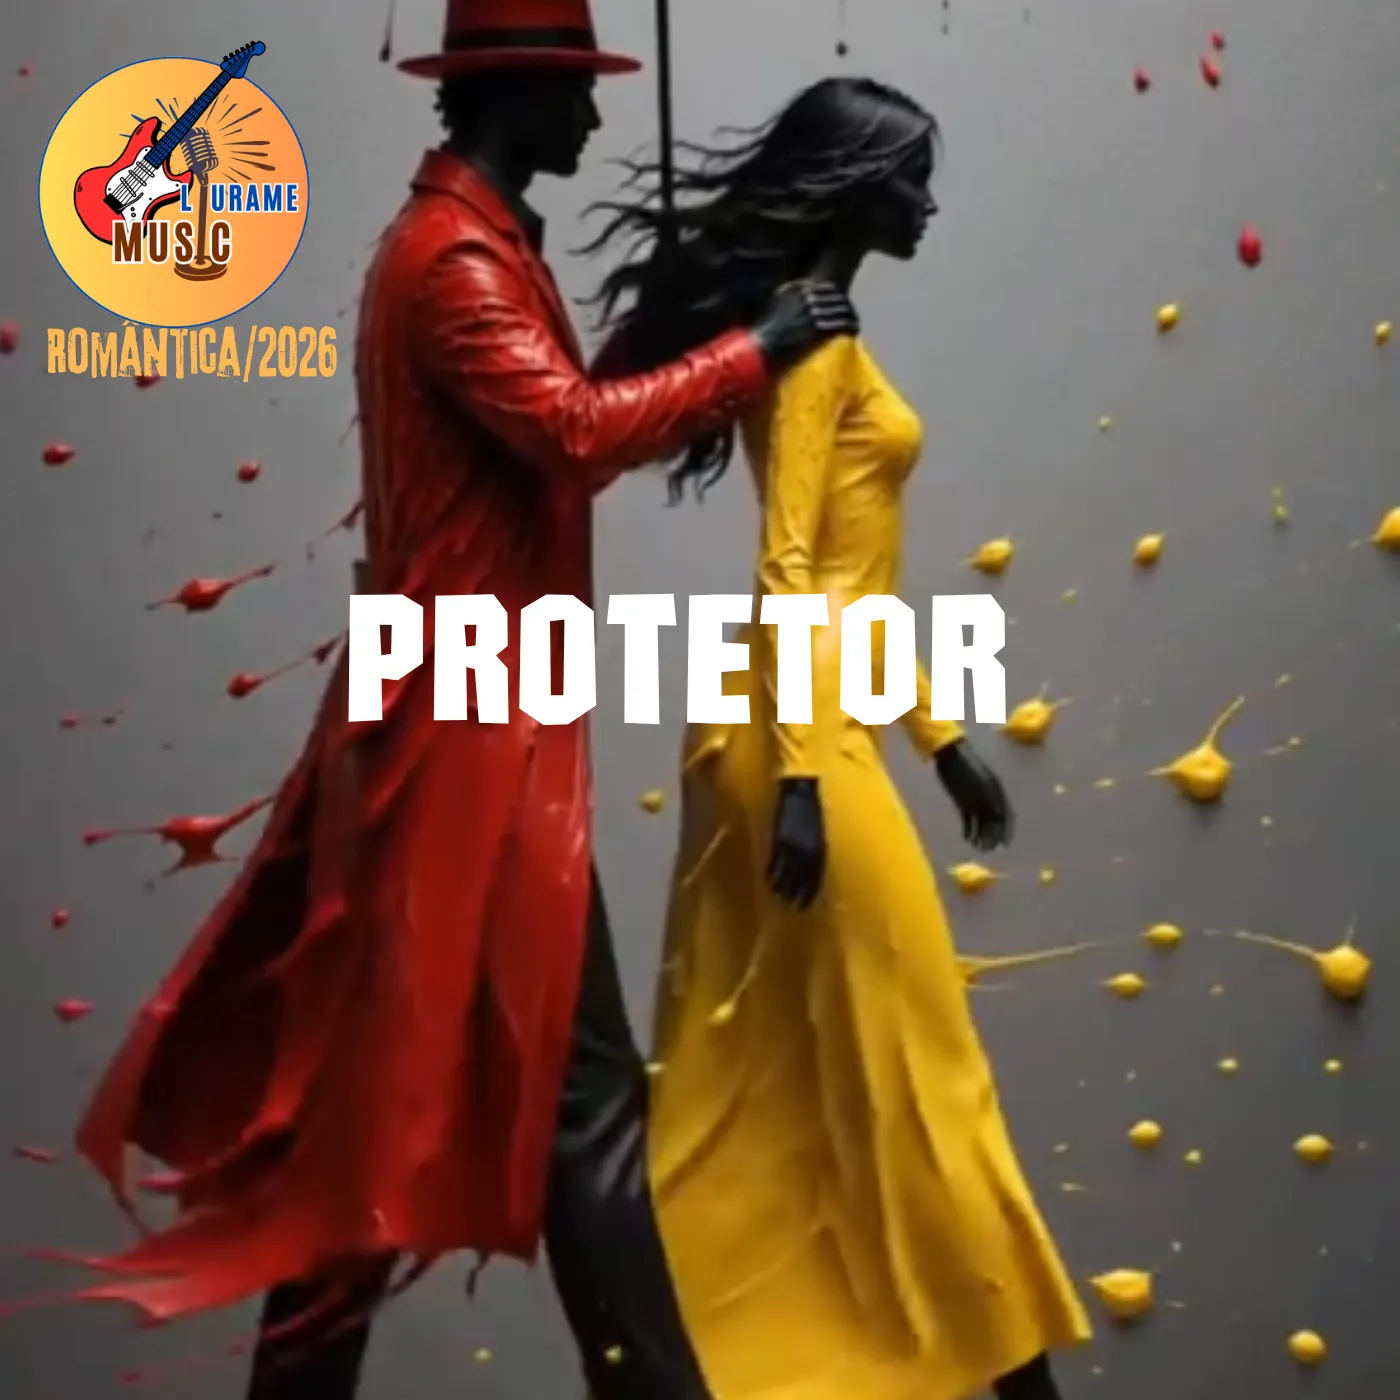
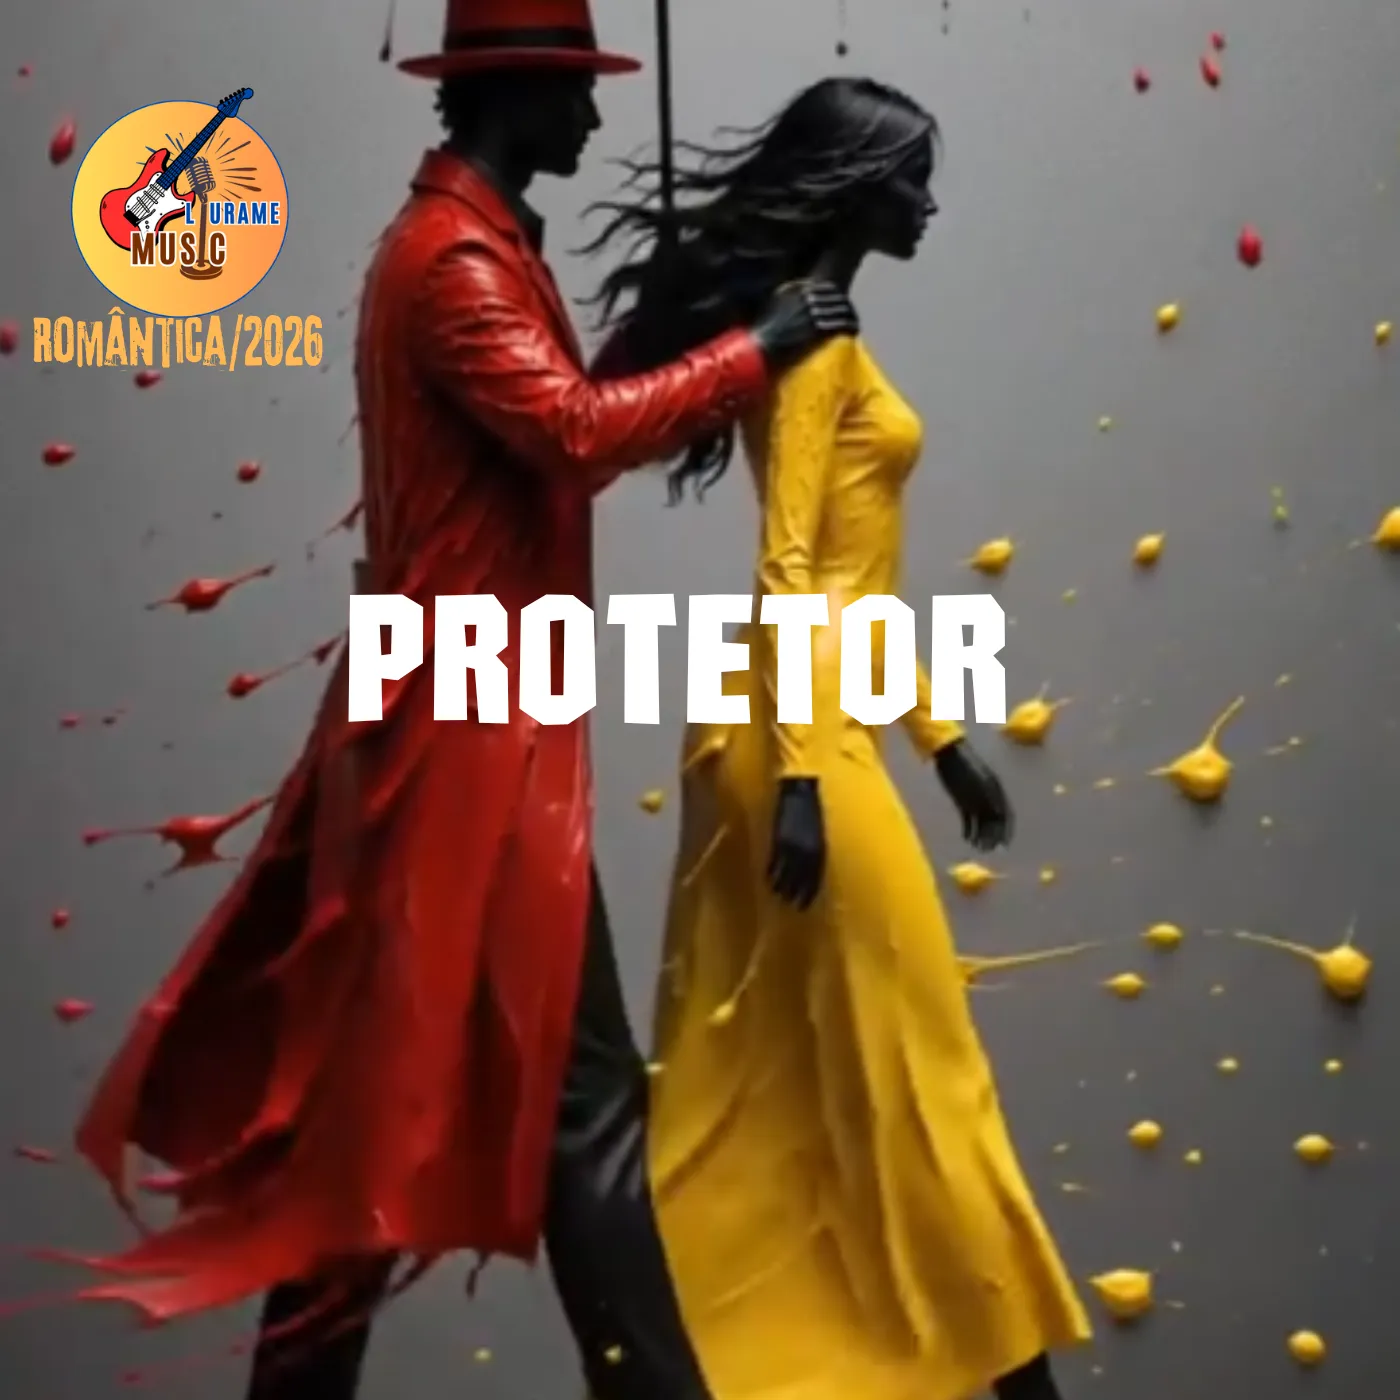
retirar linha horinzontal2

Changed region(s): [[0.0, 0.0307, 0.2457, 0.2764]]

diff --git a/musica.css b/musica.css
@@ -438,11 +438,9 @@ section {
 .rodape a:hover {
   color: #ffffff;
 }
-
 .pagina-albuns hr {
   display: none;
 }
-
 /* 13. TABLETS */
 
 @media (max-width: 991.98px) {
@@ -595,7 +593,7 @@ section {
   .detalhe-album {
     padding: 24px;
     background: #1b1813;
-    border: 1px solid #574523;
+    border: 1px solid #fad729;
     border-radius: 14px;
     scroll-margin-top: 100px;
   }
@@ -615,30 +613,6 @@ section {
     font-weight: 700;
     letter-spacing: 2px;
   }
-}
-
-.detalhe-album {
-  padding: 24px;
-  background: #1b1813;
-  border: 1px solid #574523;
-  border-radius: 14px;
-  scroll-margin-top: 100px;
-}
-
-.detalhe-album img {
-  width: 100%;
-  max-height: 340px;
-  object-fit: cover;
-}
-
-.detalhe-album h3 {
-  color: #f4c542;
-}
-
-.detalhe-album > div > p:first-child {
-  color: #f4c542;
-  font-weight: 700;
-  letter-spacing: 2px;
 }
 
 .redes-sociais {

diff --git a/albuns.html b/albuns.html
@@ -238,7 +238,7 @@
           <ol class="lista-faixas">
             <li>Calor Corporal</li>
             <li>Delicadeza</li>
-            <li>brisa ft. [Costa]</li>
+            <li>Brisa ft. [Costa]</li>
             <li>Amanhecida</li>
             <li>Nosso Segredo</li>
           </ol>
